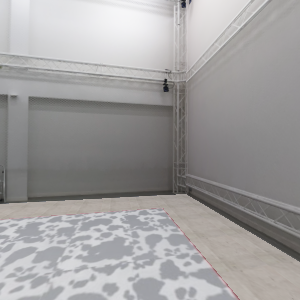
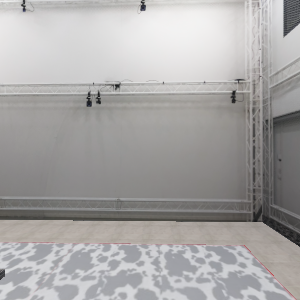
Optimized second imaging position with slope method.
Added filter in contour detection : if contour too small, return None.

diff --git a/controllers/main/assignment/my_assignment.py b/controllers/main/assignment/my_assignment.py
@@ -290,15 +290,34 @@ def get_command(sensor_data, camera_data, dt):
                 p_q_vectors[:, -1, images_taken] = p
 
                 # Compute slope of the top corners to displace in the right direction
-                slope = compute_corner_slope(current_image_corners) 
-                if slope == 1:
-                    body_x = 0.28
-                    body_y = 0.28
+                slope_top, slope_bot = compute_corner_slope(current_image_corners)
+                if slope_top >= 0 and slope_bot >= 0:
+                    if centroid[1] >= 0:         # If the centroid is below the center of the image (positive y), do:
+                        body_x = 0.15
+                        body_y = 0.3
+                        body_z = 0
+                    elif centroid[1] < 0:       # If the centroid is above the center of the image (negative y), do:
+                        body_x = 0.15
+                        body_y = -0.3
+                        body_z = 0
+                elif slope_top <= 0 and slope_bot <= 0:
+                    if centroid[1] >= 0:       # If the centroid is below the center of the image (negative y), do:
+                        body_x = 0.15
+                        body_y = -0.3
+                        body_z = 0
+                    elif centroid[1] < 0:       # If the centroid is above the center of the image (positive y), do:
+                        body_x = 0.15
+                        body_y = 0.3
+                        body_z = 0
+                elif slope_top > 0 and slope_bot < 0:
+                    body_x = 0.15
+                    body_y = -0.3
                     body_z = 0
-                elif slope == -1:
-                    body_x = 0.28
-                    body_y = -0.28
+                elif slope_top < 0 and slope_bot > 0:
+                    body_x = 0.15
+                    body_y = 0.3
                     body_z = 0
+
                 R_b2i = quaternion2rotmat([sensor_data['q_x'], sensor_data['q_y'], sensor_data['q_z'], sensor_data['q_w']])
                 displacement_goal = R_b2i @ np.array([body_x, body_y, body_z]) + np.array([sensor_data['x_global'], sensor_data['y_global'], sensor_data['z_global']])
                 displacement_goal = np.append(displacement_goal, sensor_data['yaw'])
@@ -557,14 +576,14 @@ def get_command(sensor_data, camera_data, dt):
 
 def image_processing(camera_data):
     img = cv2.cvtColor(camera_data, cv2.COLOR_BGRA2RGB) # convert BGRA to RGB
-    #plt.imsave('image_analysis/original_image.png', img[:, :, :])
+    plt.imsave('image_analysis/original_image.png', img[:, :, :])
     # Mask the image to only keep the pink area
     img_filtered = np.zeros(img.shape[:2], dtype=np.uint8)
     condition = (img[:, :, 0] > RED_BLUE_THRESHOLD_LOW) & (img[:, :, 0] < RED_BLUE_THRESHOLD_HIGH) & \
                 (img[:, :, 2] > RED_BLUE_THRESHOLD_LOW) & (img[:, :, 2] < RED_BLUE_THRESHOLD_HIGH) & \
                 (img[:, :, 1] < GREEN_THRESHOLD)
     img_filtered[condition] = 255
-    #plt.imsave('image_analysis/thresholding_image.png', img_filtered[:, :], cmap='gray')
+    plt.imsave('image_analysis/thresholding_image.png', img_filtered[:, :], cmap='gray')
     return img_filtered
 
 def get_centroid_and_corners(camera_data):
@@ -583,8 +602,7 @@ def get_centroid_and_corners(camera_data):
         contour = contours[0]
 
         cv2.drawContours(image_features, [contour], 0, (0, 255, 0), 1)
-        #plt.imsave('image_analysis/gate_single_contour' + str(images_taken+1) + '.png', image_features[:, :, :])          
-
+        plt.imsave('image_analysis/gate_single_contour' + str(images_taken+1) + '.png', image_features[:, :, :])          
         result_centroid = compute_centroid(contour)      
         if result_centroid is None:
             return None, None
@@ -602,7 +620,7 @@ def get_centroid_and_corners(camera_data):
             xi, yi = int(x), int(y)
             #color_coeff = p % len(corners)     
             image_features[yi + 150, xi + 150, 2] = 255
-        #plt.imsave('image_analysis/gate_features_single_contour_image' + str(images_taken+1) + '.png', image_features[:, :, :])
+        plt.imsave('image_analysis/gate_features_single_contour_image' + str(images_taken+1) + '.png', image_features[:, :, :])
 
         return centroid, corners                                                           
 
@@ -610,12 +628,13 @@ def get_centroid_and_corners(camera_data):
     elif len(contours) > 1:
 
         cv2.drawContours(image_features, contours, -1, (0, 255, 0), 1)
-        #plt.imsave('image_analysis/gate_multiple_contour' + str(images_taken+1) + '.png', image_features[:, :, :])          
-
+        plt.imsave('image_analysis/gate_multiple_contour' + str(images_taken+1) + '.png', image_features[:, :, :])          
         rightmost = 0
         contour_chosen = None
         cX, cY = 0, 0
         for contour in contours:
+            if len(contour) < 20:                       # Ignore small contours
+                continue
             result_centroid = compute_centroid(contour)
             if result_centroid is None:
                 return None, None
@@ -625,7 +644,9 @@ def get_centroid_and_corners(camera_data):
                 cX, cY = x - 150, y - 150               # Shift centroid to center of image
                 centroid = cX, cY
                 contour_chosen = contour
-                
+        if contour_chosen is None:
+            print("No contour chosen")
+            return None, None  
         result_corners = compute_corners(contour_chosen)
         if result_corners is None:
             return None, None
@@ -636,7 +657,7 @@ def get_centroid_and_corners(camera_data):
             xi, yi = int(x), int(y)
             #color_coeff = p % len(corners)     
             image_features[yi + 150, xi + 150, 2] = 255
-        #plt.imsave('image_analysis/gate_features_multiple_contours' + str(images_taken+1) + '.png', image_features[:, :, :])
+        plt.imsave('image_analysis/gate_features_multiple_contours' + str(images_taken+1) + '.png', image_features[:, :, :])
 
         return centroid, corners
 
@@ -687,8 +708,8 @@ def sort_corners(corners):
 
 def compute_corner_slope(corners):
     """
-    Given an array of 4 corner points (x,y) from sorted,
-    find the two topmost and two bottommost corners, order them left to right, and compute sign of their slopes.
+    Given an array of 4 corner points (x,y) from sorted, find the two topmost and two bottommost corners, order them left to right, and 
+    compute sign of their slopes.
 
     Args:
       corners: (4,2) array-like of pixel coords [(x0,y0),...,(x3,y3)] in image coordinates.
@@ -696,6 +717,7 @@ def compute_corner_slope(corners):
     Returns:
       sign of slope = sign((y_right_top - y_left_top) / (x_right_top - x_left_top) + (y_right_bottom - y_left_bottom) / (x_right_bottom - x_left_bottom))
     """
+    corners = corners + 150 # Shift origin to top left corner of image
     pts = np.asarray(corners)
 
     # Top two corners (smallest y)
@@ -707,7 +729,7 @@ def compute_corner_slope(corners):
     if dx_top == 0:
         slope_top = 0
     else :
-        slope_top = dy_top / dx_top
+        slope_top = np.sign(dy_top / dx_top)
     print('Slope top : ', slope_top)
 
     # Bottom two corners (largest y)
@@ -719,16 +741,10 @@ def compute_corner_slope(corners):
     if dx_bot == 0:
         slope_bot = 0
     else :
-        slope_bot = dy_bot / dx_bot
+        slope_bot = np.sign(dy_bot / dx_bot)
     print('Slope bot : ', slope_bot)
     
-    slope = slope_top + slope_bot
-    print("Slope: ", np.sign(slope))
-
-    if slope >= 0:
-        return 1
-    elif slope < 0:
-        return -1
+    return slope_top, slope_bot
 
 def quaternion2rotmat(quaternion):      
     """

diff --git a/controllers/main/main.py b/controllers/main/main.py
@@ -17,7 +17,7 @@ import cv2 as cv
 
 exp_num = 4                         # 0: Coordinate Transformation, 1: PID Tuning, 2: Kalman Filter, 3: Motion Planning, 4: Project
 control_style = 'path_planner'      # 'keyboard' or 'path_planner'
-SEED = 70                           # (to erase for assignment) tricky seeds : (33), 34, (42), (44), (52), (53)
+SEED = 42                           # (to erase for assignment) tricky seeds : (33), (34), (42), (44), (52), (53), 71 ?!
 np.random.seed(SEED)
 random.seed(SEED)
 rand_env = True                    # Randomise the environment

diff --git a/controllers/main/image_analysis/image_inspection.py b/controllers/main/image_analysis/image_inspection.py
@@ -3,7 +3,7 @@ import matplotlib.pyplot as plt
 import matplotlib.image as mpimg
 
 # Load the image using OpenCV
-img_path = r"C:/Documents_LOCAL/EPFL/MA2/Aerial_robotics/micro-502/controllers/main/image_analysis/original_image.png"
+img_path = r"C:/Documents_LOCAL/EPFL/MA2/Aerial_robotics/micro-502/controllers/main/image_analysis/gate_features_multiple_contours1.png"
 img_bgr = cv2.imread(img_path) #openCV loads images in BGR format
 img_rgb = cv2.cvtColor(img_bgr, cv2.COLOR_BGR2RGB)
 
